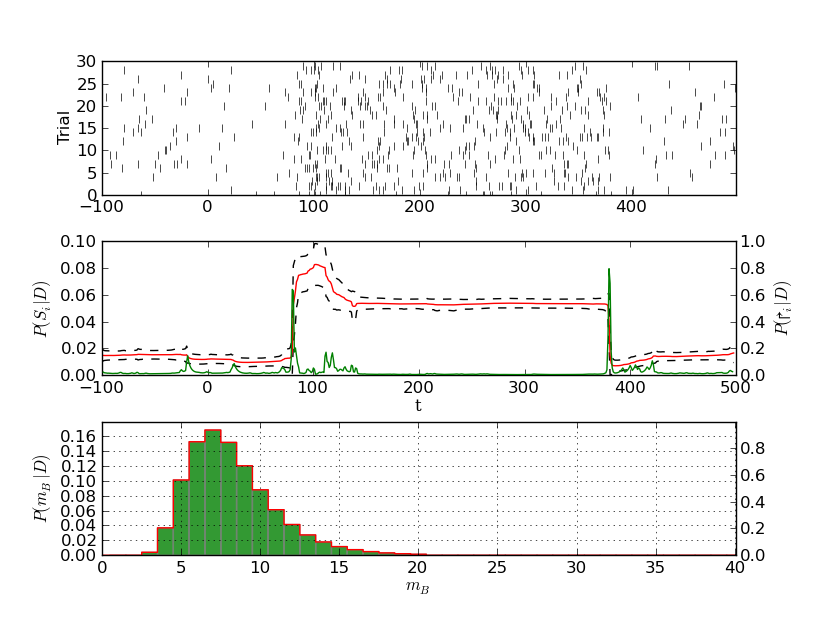
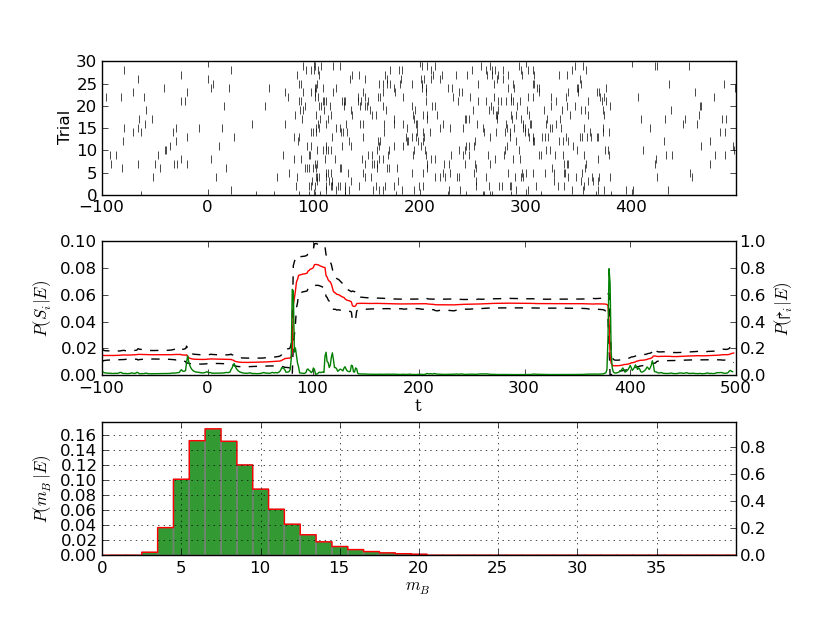
2011/01/01-2

diff --git a/bayesian-binning/bayesian-binning.py b/bayesian-binning/bayesian-binning.py
@@ -84,7 +84,7 @@ def plotmodelpost(ax, modelpost):
     patch   = patches.PathPatch(barpath, facecolor='green', edgecolor='gray', alpha=0.8)
     ax.add_patch(patch)
     ax.set_xlabel(r'$m_B$',  font)
-    ax.set_ylabel(r'$P(m_B|D)$', font)
+    ax.set_ylabel(r'$P(m_B|E)$', font)
 
 def plotentropy(ax, entropy):
     if entropy and options['entropy']:
@@ -92,7 +92,7 @@ def plotentropy(ax, entropy):
         x = np.arange(0, N+1, 1)
         entropy.append(0)
         ax.step(x, entropy, 'b--', where='mid', linewidth=1)
-        ax.set_ylabel(r'$H(\mathcal{B}|D,m_B)$', font)
+        ax.set_ylabel(r'$H(\mathcal{B}|E,m_B)$', font)
 
 def plotspikes(ax, x, timings):
     """Plot trials of spike trains."""
@@ -110,7 +110,7 @@ def plotspikes(ax, x, timings):
 def plotbinboundaries(ax, x, bprob, modelpost):
     ax.plot(x[1:-1], bprob[1:-1], 'g')
     ax.set_ylim(0,1)
-    ax.set_ylabel(r'$P(\Rsh_i|D)$', font)
+    ax.set_ylabel(r'$P(\Rsh_i|E)$', font)
 #    nbins = argmax(modelpost)[1]+1
 #    bprob_max = sorted(bprob)[-nbins:]
 #    for b in bprob_max:
@@ -127,7 +127,7 @@ def plotbin(ax, x, exp, var, skew, bprob, modelpost):
     ax.plot(x, [max(0,a - math.sqrt(b)) for a, b in zip(exp, var)], 'k--')
     ax.plot(x, exp, 'r')
     ax.set_xlabel('t',  font)
-    ax.set_ylabel(r'$P(S_i|D)$', font)
+    ax.set_ylabel(r'$P(S_i|E)$', font)
     if bprob and options['bprob']:
         plotbinboundaries(ax.twinx(), x, bprob, modelpost)
 
